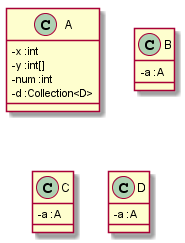
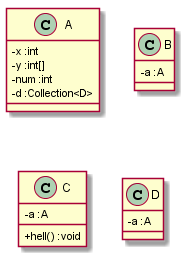
Third commit for #9: Listing class methods in Class Diagram

diff --git a/src/com/parser/JavaParserUML.java b/src/com/parser/JavaParserUML.java
@@ -11,6 +11,7 @@ import java.util.Map.Entry;
 
 import com.parser.beans.AttributeStructure;
 import com.parser.beans.ClassStructure;
+import com.parser.beans.MethodStructure;
 
 import japa.parser.JavaParser;
 import japa.parser.ParseException;
@@ -18,6 +19,7 @@ import japa.parser.ast.CompilationUnit;
 import japa.parser.ast.body.BodyDeclaration;
 import japa.parser.ast.body.ClassOrInterfaceDeclaration;
 import japa.parser.ast.body.FieldDeclaration;
+import japa.parser.ast.body.MethodDeclaration;
 import japa.parser.ast.body.ModifierSet;
 import japa.parser.ast.body.TypeDeclaration;
 import net.sourceforge.plantuml.FileFormat;
@@ -64,10 +66,12 @@ public class JavaParserUML {
 
 				List<BodyDeclaration> classMembers = type.getMembers();
 				List<AttributeStructure> attributeStructure = new ArrayList<AttributeStructure>();
+				List<MethodStructure> methodStructure = new ArrayList<MethodStructure>();
 				for (BodyDeclaration classAttribute : classMembers) {
-					AttributeStructure attrs = new AttributeStructure();
+					
 					System.out.println(classAttribute);
 					if (classAttribute instanceof FieldDeclaration) {
+						AttributeStructure attrs = new AttributeStructure();
 						FieldDeclaration field = (FieldDeclaration) classAttribute;
 						System.out.println(field.getModifiers());
 						// attrs.setAttributeaccessModifier(field.getModifiers());
@@ -80,7 +84,22 @@ public class JavaParserUML {
 						attrs.setAttributeType(field.getType().toString());
 						attributeStructure.add(attrs);
 					}
+					if (classAttribute instanceof MethodDeclaration) {
+						MethodStructure methodStruct = new MethodStructure();
+						MethodDeclaration methoDec = (MethodDeclaration) classAttribute;
+					//	System.out.println(field.getModifiers());
+						// attrs.setAttributeaccessModifier(field.getModifiers());
+						if (methoDec.getModifiers() == ModifierSet.PUBLIC) {
+							methodStruct.setMethodAccessModifier("public");
+						} else if (methoDec.getModifiers() == ModifierSet.PRIVATE) {
+							methodStruct.setMethodAccessModifier("private");
+						}
+						methodStruct.setMethodName(methoDec.getName());
+						methodStruct.setMethodReturnType(methoDec.getType().toString());
+						methodStructure.add(methodStruct);
+					}
 					parsedStructure.setAttributes(attributeStructure);
+					parsedStructure.setMethods(methodStructure);
 				}
 				parsedList.add(parsedStructure);
 			}
@@ -106,6 +125,16 @@ public class JavaParserUML {
 						printLine.append("-" +attr.getAttributeName() + " :" + attr.getAttributeType() + "\n");
 					} else if (attr.getAttributeaccessModifier() == "public") {
 						printLine.append("+" +attr.getAttributeName() + " :" + attr.getAttributeType() + "\n");
+					}
+				}
+			}
+			if (classValues.getMethods() != null) {
+				List<MethodStructure> metList = classValues.getMethods();
+				for (MethodStructure methoDec : metList) {
+					if (methoDec.getMethodAccessModifier() == "private") {
+						printLine.append("-" +methoDec.getMethodName() + "() :" + methoDec.getMethodReturnType() + "\n");
+					} else if (methoDec.getMethodAccessModifier() == "public") {
+						printLine.append("+" +methoDec.getMethodName() + "() :" + methoDec.getMethodReturnType() + "\n");
 					}
 				}
 			}

diff --git a/src/com/parser/beans/MethodStructure.java b/src/com/parser/beans/MethodStructure.java
@@ -3,6 +3,7 @@ package com.parser.beans;
 public class MethodStructure {
 	private String methodName;
 	private String methodAccessModifier;
+	private String methodReturnType;
 
 	public String getMethodName() {
 		return methodName;
@@ -18,6 +19,14 @@ public class MethodStructure {
 
 	public void setMethodAccessModifier(String methodAccessModifier) {
 		this.methodAccessModifier = methodAccessModifier;
+	}
+
+	public String getMethodReturnType() {
+		return methodReturnType;
+	}
+
+	public void setMethodReturnType(String methodReturnType) {
+		this.methodReturnType = methodReturnType;
 	}
 
 }
